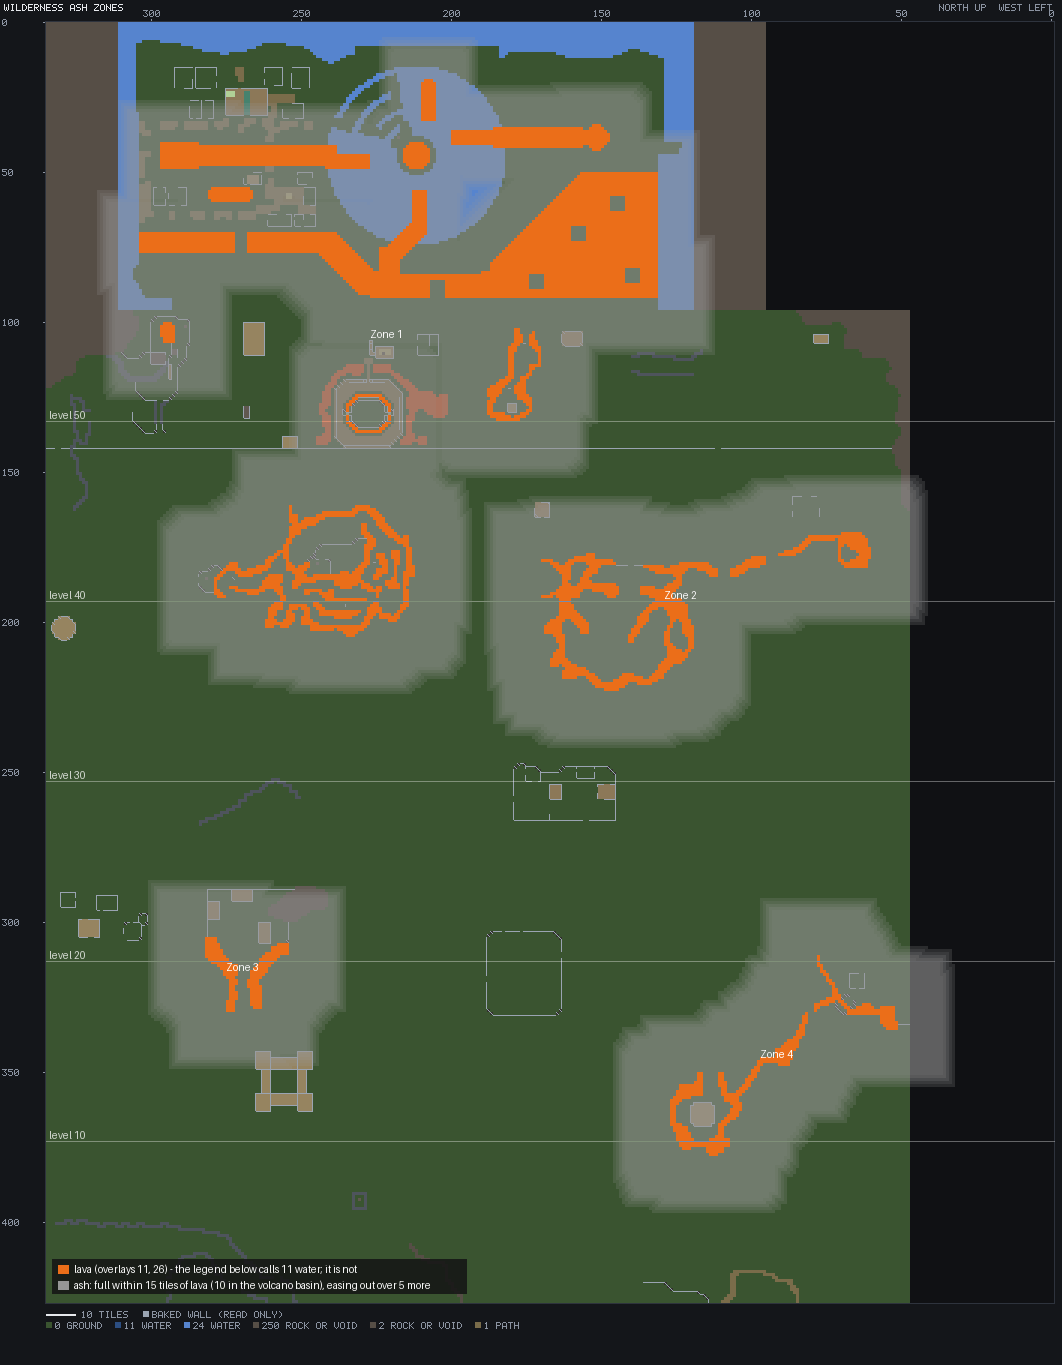
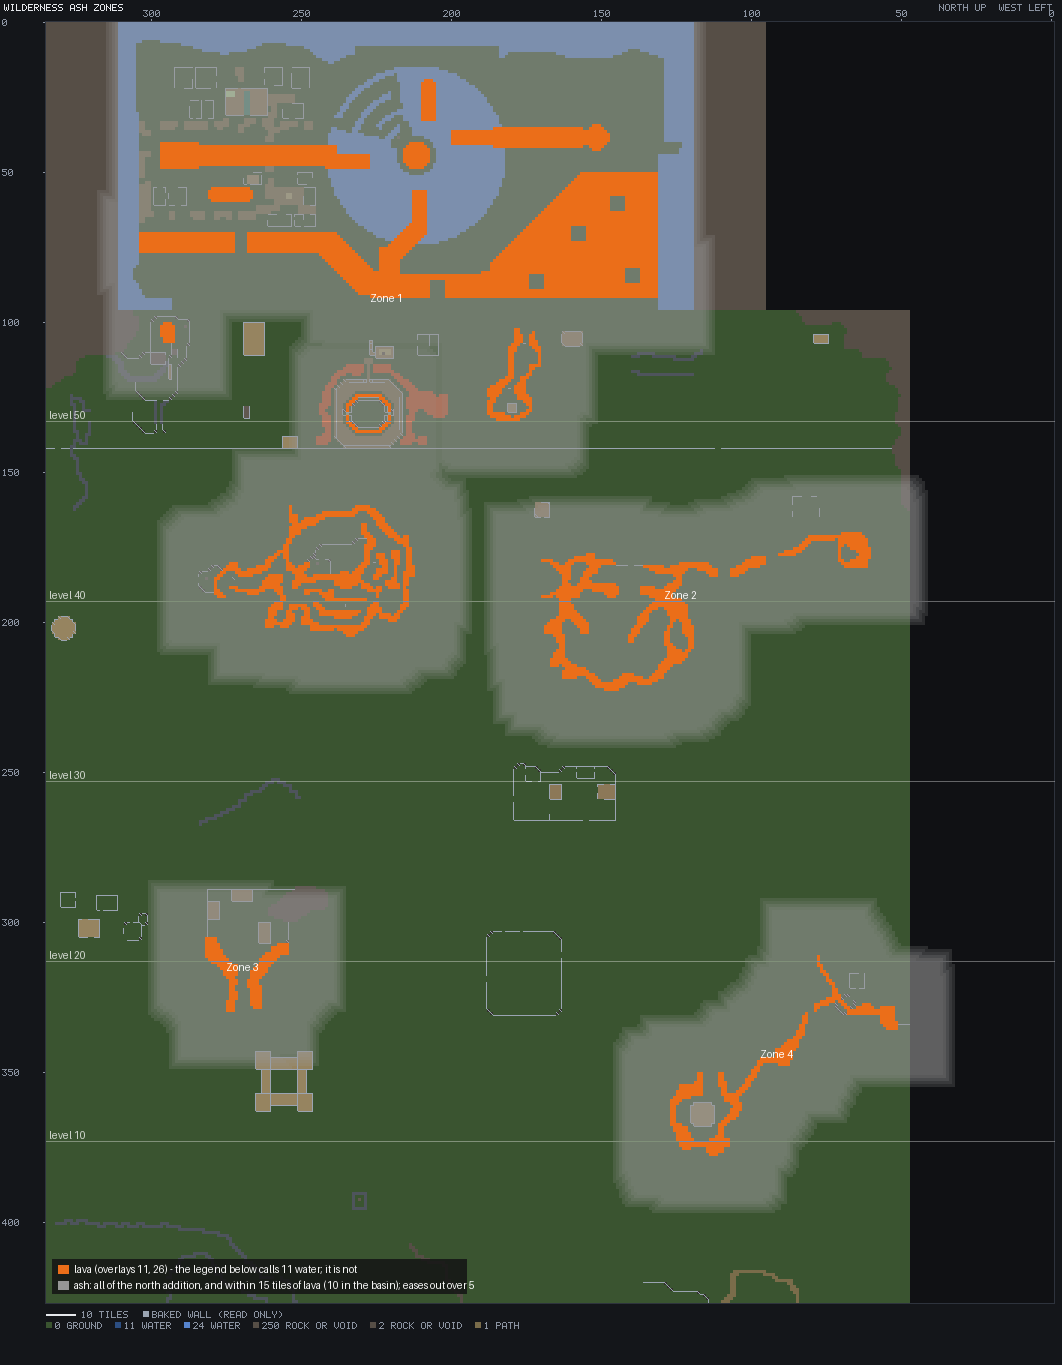
concepts: effects preview - every effect eases in and out by quantity; north addition all ash

diff --git a/concepts/effects-preview/index.html b/concepts/effects-preview/index.html
@@ -50,8 +50,17 @@ figcaption{padding:10px 12px}figcaption b{display:block}figcaption span{color:va
 <figure><img src="wild-wilderness-night.gif" alt="Wilderness - night"><figcaption><b>Wilderness - night</b></figcaption></figure>
 <figure><img src="wild-lava-dusk.gif" alt="Lava river - dusk"><figcaption><b>Lava river - dusk</b></figcaption></figure>
 <figure><img src="wild-lava-night.gif" alt="Lava river - night"><figcaption><b>Lava river - night</b></figcaption></figure>
-<figure><img src="ash-ease-in.gif" alt="Ash ease-in"><figcaption><b>Ash ease-in</b></figcaption></figure>
 <figure><img src="ash-zones.png" alt="Ash zones"><figcaption><b>Ash zones</b></figcaption></figure>
+</div>
+<div class="grid">
+<figure><img src="ease-rain-R1.gif" alt="Rain R1 in/out"><figcaption><b>Rain R1 in/out</b></figcaption></figure>
+<figure><img src="ease-rain-R2.gif" alt="Rain R2 in/out"><figcaption><b>Rain R2 in/out</b></figcaption></figure>
+<figure><img src="ease-storm.gif" alt="Thunderstorm in/out"><figcaption><b>Thunderstorm in/out</b></figcaption></figure>
+<figure><img src="ease-snow.gif" alt="Snow in/out"><figcaption><b>Snow in/out</b></figcaption></figure>
+<figure><img src="ease-blizzard.gif" alt="Blizzard in/out"><figcaption><b>Blizzard in/out</b></figcaption></figure>
+<figure><img src="ease-sandstorm.gif" alt="Sandstorm in/out"><figcaption><b>Sandstorm in/out</b></figcaption></figure>
+<figure><img src="ease-downpour.gif" alt="Karamja downpour in/out"><figcaption><b>Karamja downpour in/out</b></figcaption></figure>
+<figure><img src="ease-ash.gif" alt="Ash in/out"><figcaption><b>Ash in/out</b></figcaption></figure>
 </div>
 <div class="grid">
 <figure><img src="glow-barbarian.gif" alt="Barbarian Village"><figcaption><b>Barbarian Village</b></figcaption></figure>
